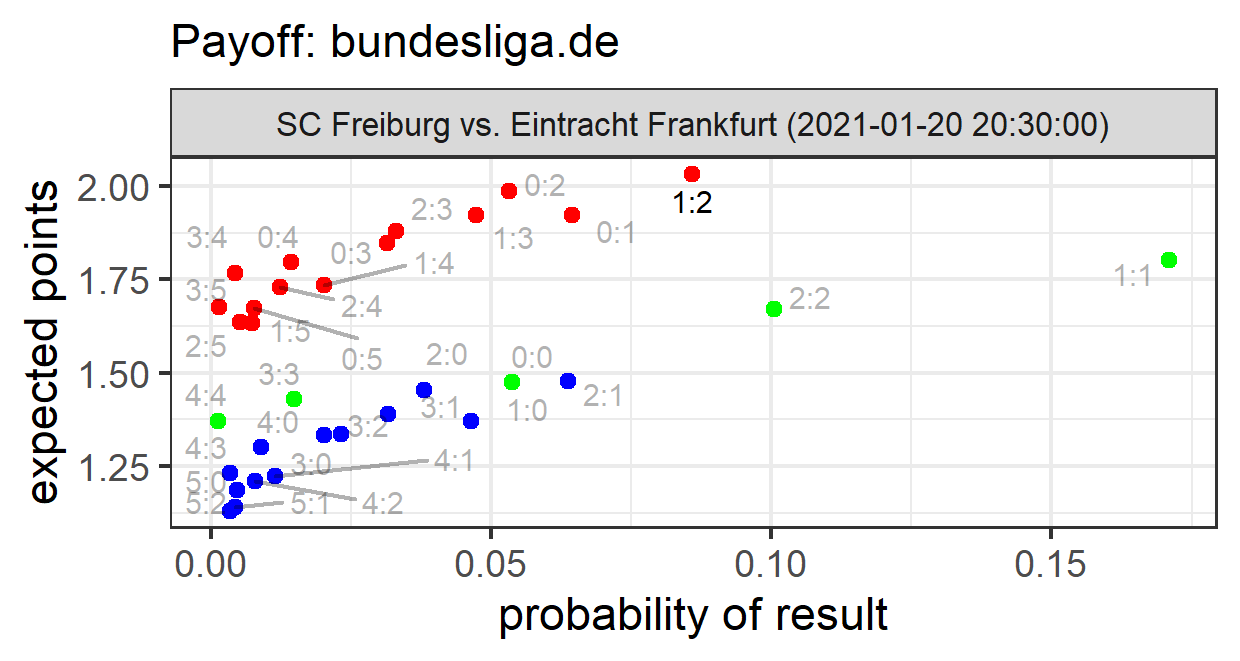
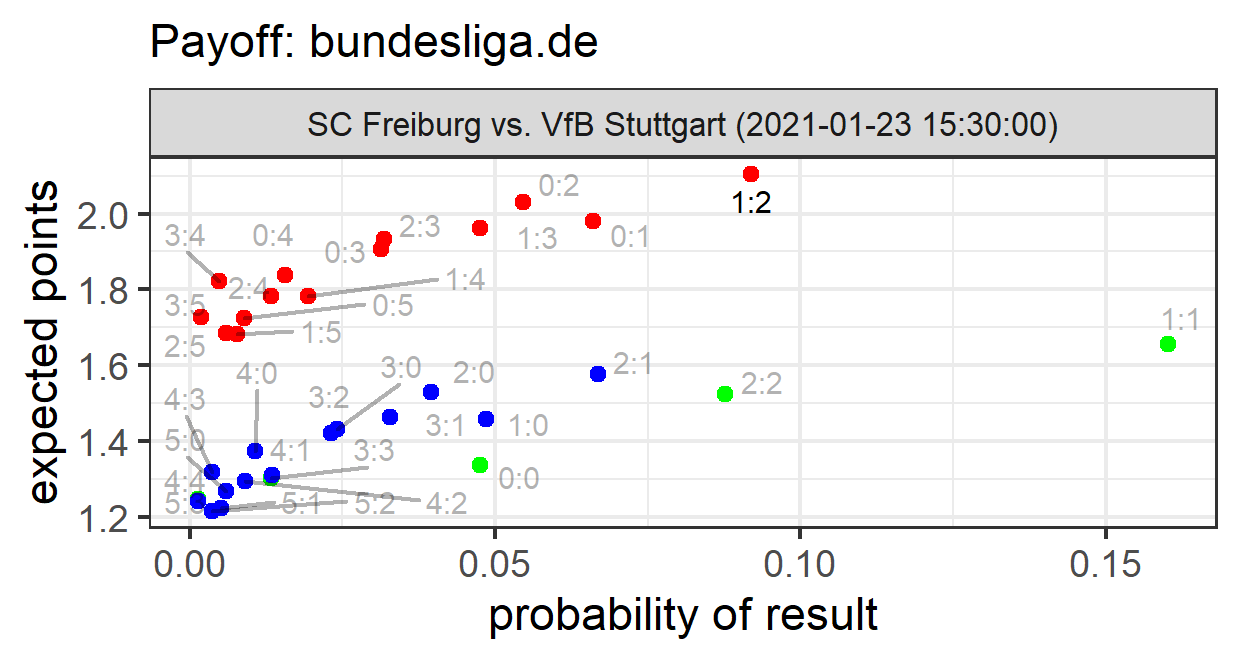
kicktipp update md 18

diff --git a/index.html b/index.html
@@ -130,23 +130,23 @@ tr:nth-child(even){background-color: #f2f2f2}
       </div>
 
 
-<h3> Optimale Tipps für die Bundesliga vom 2021-01-18</h3>
+<h3> Optimale Tipps für die Bundesliga vom 2021-01-22</h3>
 
 <div style="overflow-x:auto;">
 
 <!-- html table generated in R 4.0.2 by xtable 1.8-4 package -->
-<!-- Mon Jan 18 21:34:17 2021 -->
+<!-- Fri Jan 22 08:23:07 2021 -->
 <table border=1>
 <tr> <th>  </th> <th> date </th> <th> game </th> <th> exp_bl </th> <th> exp_432 </th>  </tr>
-  <tr> <td align="right"> 1 </td> <td> 2021-01-19 19:30 </td> <td> Borussia Mönchengladbach : Werder Bremen </td> <td> 2:0 (2.724) </td> <td> 1:0 (1.412) </td> </tr>
-  <tr> <td align="right"> 2 </td> <td> 2021-01-19 21:30 </td> <td> Bayer Leverkusen : BV Borussia Dortmund 09 </td> <td> 1:2 (2.374) </td> <td> 1:2 (1.233) </td> </tr>
-  <tr> <td align="right"> 3 </td> <td> 2021-01-19 21:30 </td> <td> Hertha BSC : TSG 1899 Hoffenheim </td> <td> 1:1 (1.844) </td> <td> 1:1 (1.055) </td> </tr>
-  <tr> <td align="right"> 4 </td> <td> 2021-01-19 21:30 </td> <td> 1. FSV Mainz 05 : VfL Wolfsburg </td> <td> 1:2 (2.701) </td> <td> 1:2 (1.405) </td> </tr>
-  <tr> <td align="right"> 5 </td> <td> 2021-01-20 19:30 </td> <td> FC Schalke 04 : 1. FC Köln </td> <td> 1:0 (2.418) </td> <td> 1:0 (1.27) </td> </tr>
-  <tr> <td align="right"> 6 </td> <td> 2021-01-20 21:30 </td> <td> Arminia Bielefeld : VfB Stuttgart </td> <td> 1:2 (2.725) </td> <td> 1:2 (1.428) </td> </tr>
-  <tr> <td align="right"> 7 </td> <td> 2021-01-20 21:30 </td> <td> FC Augsburg : FC Bayern München </td> <td> 1:3 (3.845)*J </td> <td> 0:2 (1.994)*J </td> </tr>
-  <tr> <td align="right"> 8 </td> <td> 2021-01-20 21:30 </td> <td> SC Freiburg : Eintracht Frankfurt </td> <td> 1:2 (2.033) </td> <td> 1:2 (1.053) </td> </tr>
-  <tr> <td align="right"> 9 </td> <td> 2021-01-20 21:30 </td> <td> RB Leipzig : 1. FC Union Berlin </td> <td> 2:0 (2.875) </td> <td> 1:0 (1.473) </td> </tr>
+  <tr> <td align="right"> 1 </td> <td> 2021-01-22 21:30 </td> <td> Borussia Mönchengladbach : BV Borussia Dortmund 09 </td> <td> 1:2 (2.436) </td> <td> 1:2 (1.265) </td> </tr>
+  <tr> <td align="right"> 2 </td> <td> 2021-01-23 16:30 </td> <td> Arminia Bielefeld : Eintracht Frankfurt </td> <td> 1:2 (2.779) </td> <td> 1:2 (1.456) </td> </tr>
+  <tr> <td align="right"> 3 </td> <td> 2021-01-23 16:30 </td> <td> FC Augsburg : 1. FC Union Berlin </td> <td> 1:2 (2.354) </td> <td> 0:1 (1.262) </td> </tr>
+  <tr> <td align="right"> 4 </td> <td> 2021-01-23 16:30 </td> <td> Bayer Leverkusen : VfL Wolfsburg </td> <td> 2:1 (2.026) </td> <td> 2:1 (1.04) </td> </tr>
+  <tr> <td align="right"> 5 </td> <td> 2021-01-23 16:30 </td> <td> SC Freiburg : VfB Stuttgart </td> <td> 1:2 (2.105) </td> <td> 1:2 (1.089) </td> </tr>
+  <tr> <td align="right"> 6 </td> <td> 2021-01-23 16:30 </td> <td> 1. FSV Mainz 05 : RB Leipzig </td> <td> 0:2 (3.411) </td> <td> 0:1 (1.766) </td> </tr>
+  <tr> <td align="right"> 7 </td> <td> 2021-01-23 19:30 </td> <td> Hertha BSC : Werder Bremen </td> <td> 1:1 (2.002) </td> <td> 1:1 (1.148) </td> </tr>
+  <tr> <td align="right"> 8 </td> <td> 2021-01-24 16:30 </td> <td> FC Schalke 04 : FC Bayern München </td> <td> 1:3 (3.977)*J </td> <td> 0:3 (2.047)*J </td> </tr>
+  <tr> <td align="right"> 9 </td> <td> 2021-01-24 19:30 </td> <td> TSG 1899 Hoffenheim : 1. FC Köln </td> <td> 2:1 (3.319) </td> <td> 1:0 (1.721) </td> </tr>
    </table>
 
 
